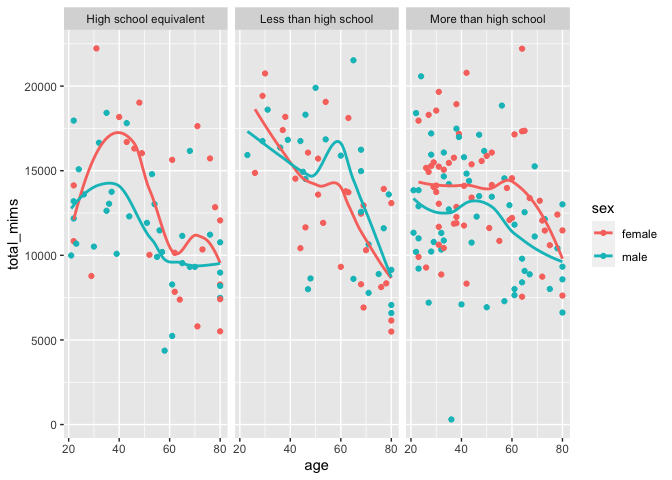
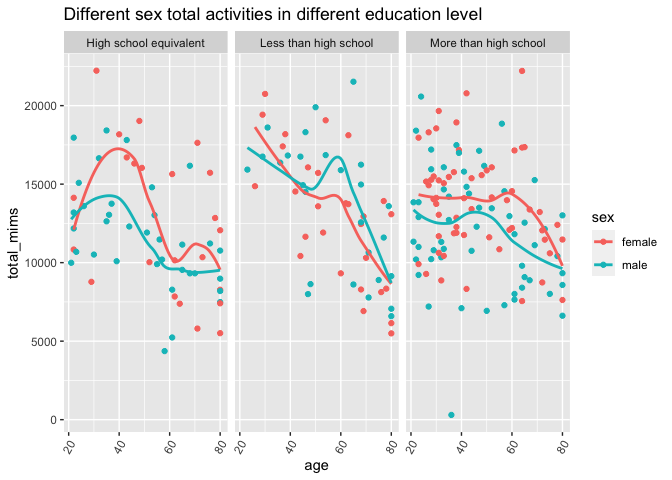
final question finished

diff --git a/p8105_hw3_wz2675.md b/p8105_hw3_wz2675.md
@@ -285,7 +285,9 @@ nhanes_data |>
   ggplot(aes(x = age, y = total_mims, color = sex)) +
   geom_point() +
   geom_smooth(se = FALSE) +
-  facet_grid(~education)
+  facet_grid(~education) +
+  labs(title = "Different sex total activities in different education level") +
+  theme(axis.text.x = element_text(angle = 60, hjust = 1))
 ```
 
     ## `geom_smooth()` using method = 'loess' and formula = 'y ~ x'
@@ -301,3 +303,27 @@ with females higher than males. And there is the same condition for
 people in less than high school category in their 60s with males greater
 than females. For more than high school, the trend is somehow flat and
 uniform.
+
+``` r
+nhanes_data |> 
+  pivot_longer(cols = starts_with("min"),
+               names_to = "mins",
+               values_to = "min_data") |> 
+  ggplot(aes(x = mins, y = min_data)) +
+  geom_point(aes(color = sex, alpha = .5)) +
+  geom_smooth(se = FALSE) +
+  facet_grid(~education) +
+  labs(title = "Daily activity of different gender in different education level") +
+  theme(axis.text.x = element_text(angle = 60, hjust = 1))
+```
+
+    ## `geom_smooth()` using method = 'loess' and formula = 'y ~ x'
+
+![](p8105_hw3_wz2675_files/figure-gfm/unnamed-chunk-13-1.png)<!-- -->
+
+In this question, we are looking for a pattern of people’s daily
+activity spreaded into minutes. From the graph we made, we noticed that
+both males and females experiences a “gap” period in the middle of the
+day. For males have a education level of more than high school, they
+have a higher activity level in the morning and early evening compared
+with females.
